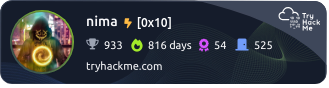
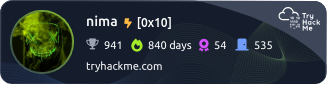
Update site from _site

diff --git a/README.md b/README.md
@@ -21,7 +21,7 @@ Personal cybersecurity & growth website + open-source CyberShark Jekyll theme wi
 <!-- Maintenance / Versions / Quick Demo -->
 <p align="center">
   <!-- ⚠️ This badge is auto-updated by update-badges.js. Do NOT manually edit the date! -->
-  <a href="#"><img src="https://img.shields.io/badge/Last_Updated-2025--12--03-lightgrey?logo=github&logoColor=white" alt="Last Updated"></a>
+  <a href="#"><img src="https://img.shields.io/badge/Last_Updated-2025--12--19-lightgrey?logo=github&logoColor=white" alt="Last Updated"></a>
   <a href="https://nima.ninja"><img src="https://img.shields.io/badge/Quick_Demo-Live%20Site-00bfff?logo=firefox&logoColor=white" alt="Quick Demo / Live Site"></a>
   <br>
   <!-- Dependencies -->